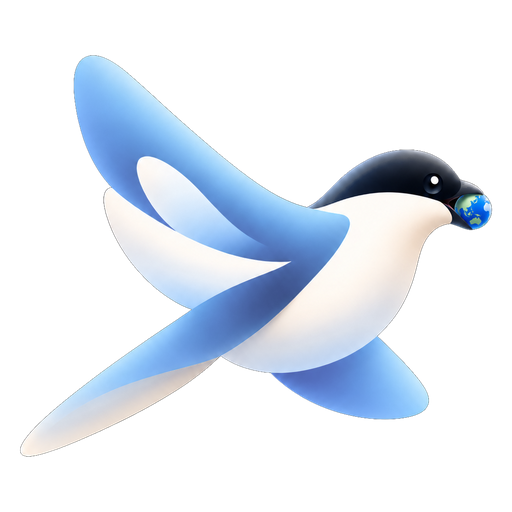
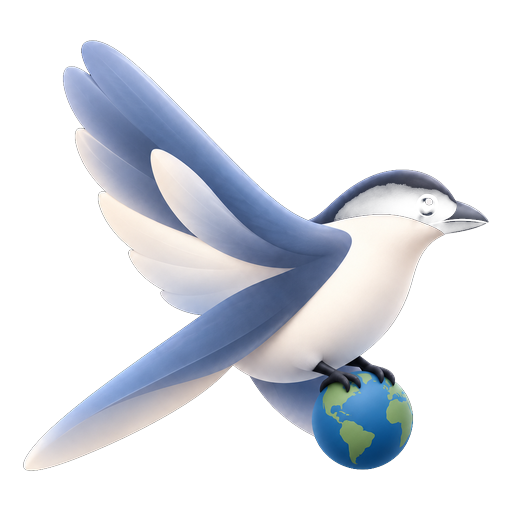
brand: 브랜드 사이트의 지오글 마크도 새 그림으로 맞춘다
지오글이 마크를 바꿨는데(seji 8612719 — 지구본을 부리에 물지 않고 발로 딛고
선 물까치) 브랜드 사이트만 옛 그림을 들고 있으면, 방금 없앤 "같은 새인데
사이트마다 다르다" 가 그대로 되살아난다.

**그림을 직접 설명하는 문구만 함께 고쳤다** — alt 두 곳("지구본을 문" →
"지구본을 딛고 선")과 마크 절의 지오글 캡션("세계를 물고 와서" → "세계를
딛고 서서"). 새 그림에 대해 사실이 아니게 된 문장들이다.

**개념 문장은 손대지 않았다** — 절 제목 "한 마리의 새, 세 가지 부리" 와
"무엇을 물고 있느냐만 바꿨다". 이건 브랜드 이야기라 내가 정할 것이 아니다.
지금은 넷 중 하나가 부리가 아니라 발이라 이 두 줄과 어긋난다.

Claude-Session: https://claude.ai/code/session_01C5hwXkP7FNVyWqAUhqie3H

Changed region(s): [[0.0312, 0.0625, 0.9688, 0.9375], [0.2188, 0.4688, 0.2812, 0.5312]]

diff --git a/brand-site/index.html b/brand-site/index.html
@@ -62,7 +62,7 @@
 
   <div class="works">
     <article class="work">
-      <img class="work-bird" src="img/magpie-globe.webp" alt="지구본을 문 물까치" width="256" height="256" loading="lazy">
+      <img class="work-bird" src="img/magpie-globe.webp" alt="지구본을 딛고 선 물까치" width="256" height="256" loading="lazy">
       <div class="work-body">
         <p class="work-kicker">Geogl3 · 지오글</p>
         <h3 class="work-name">위에서 내려다보는 지리 퀴즈</h3>
@@ -219,10 +219,10 @@
       </figcaption>
     </figure>
     <figure class="mark">
-      <img src="img/magpie-globe.webp" alt="지구본을 문 물까치" width="256" height="256" loading="lazy">
+      <img src="img/magpie-globe.webp" alt="지구본을 딛고 선 물까치" width="256" height="256" loading="lazy">
       <figcaption>
         <b>Geogl3</b>
-        <span>지구본. 세계를 물고 와서 위에서 내려다보게 한다.</span>
+        <span>지구본. 세계를 딛고 서서 위에서 내려다보게 한다.</span>
       </figcaption>
     </figure>
     <figure class="mark">
